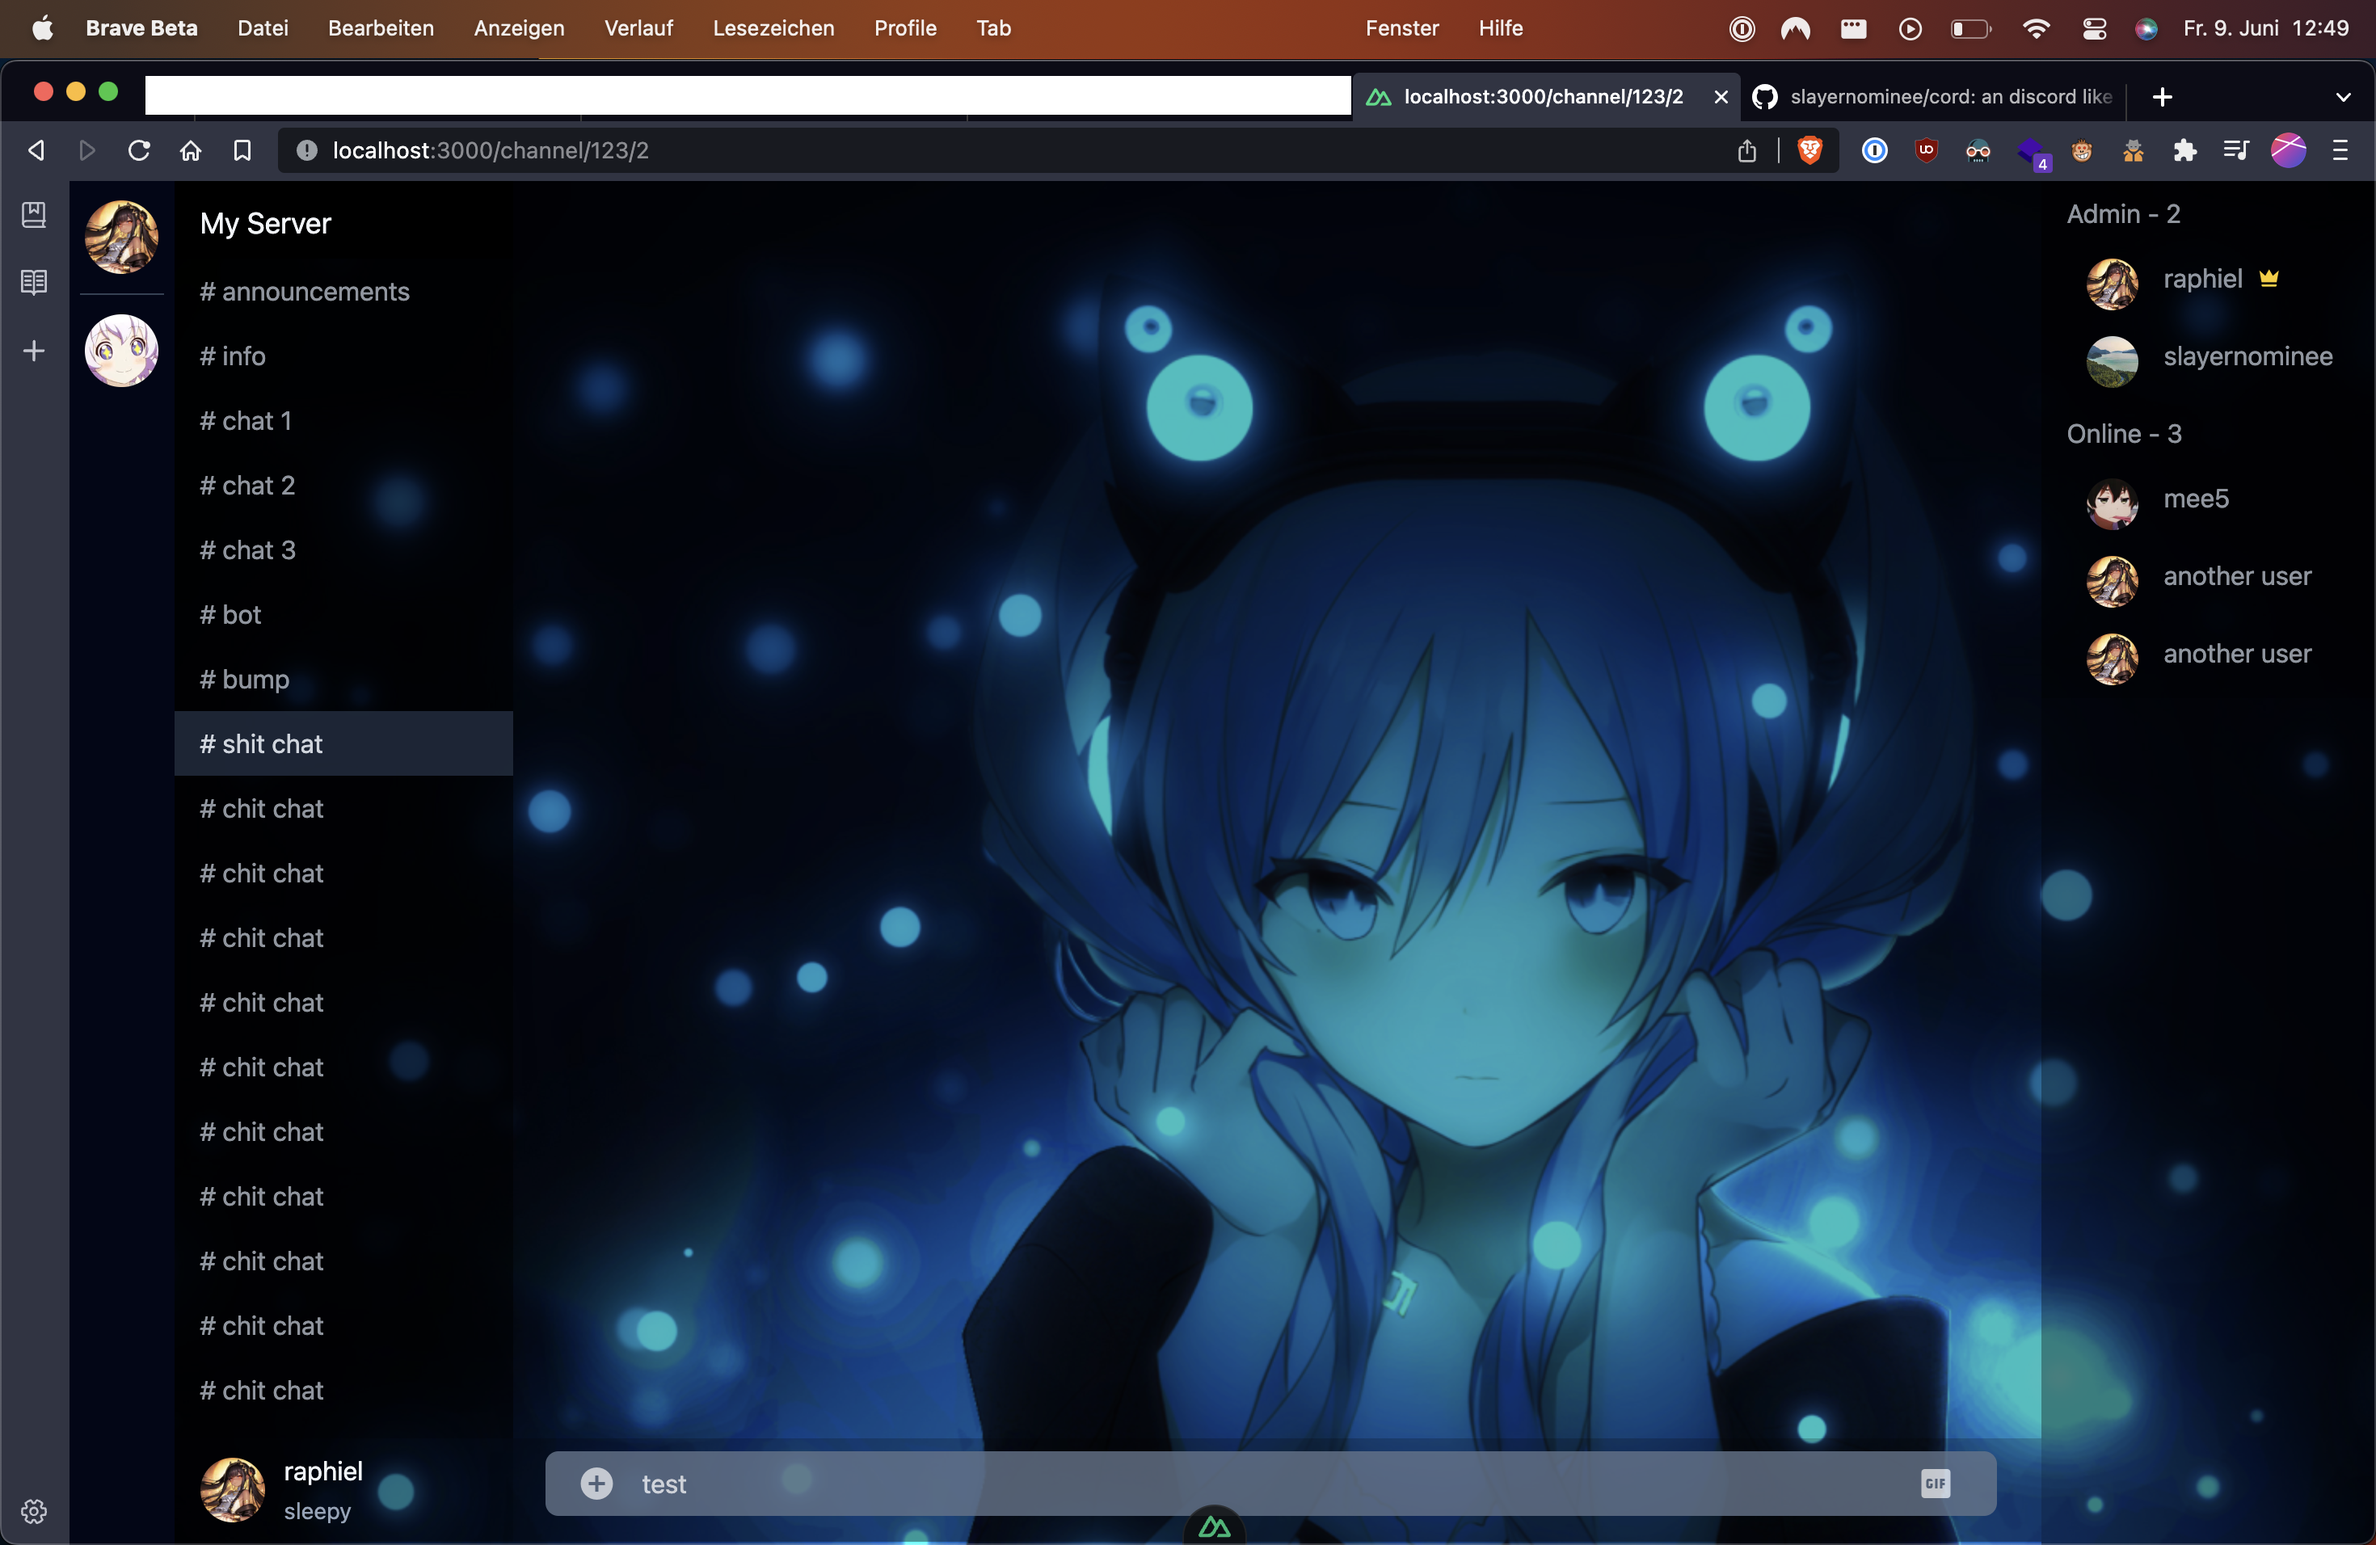
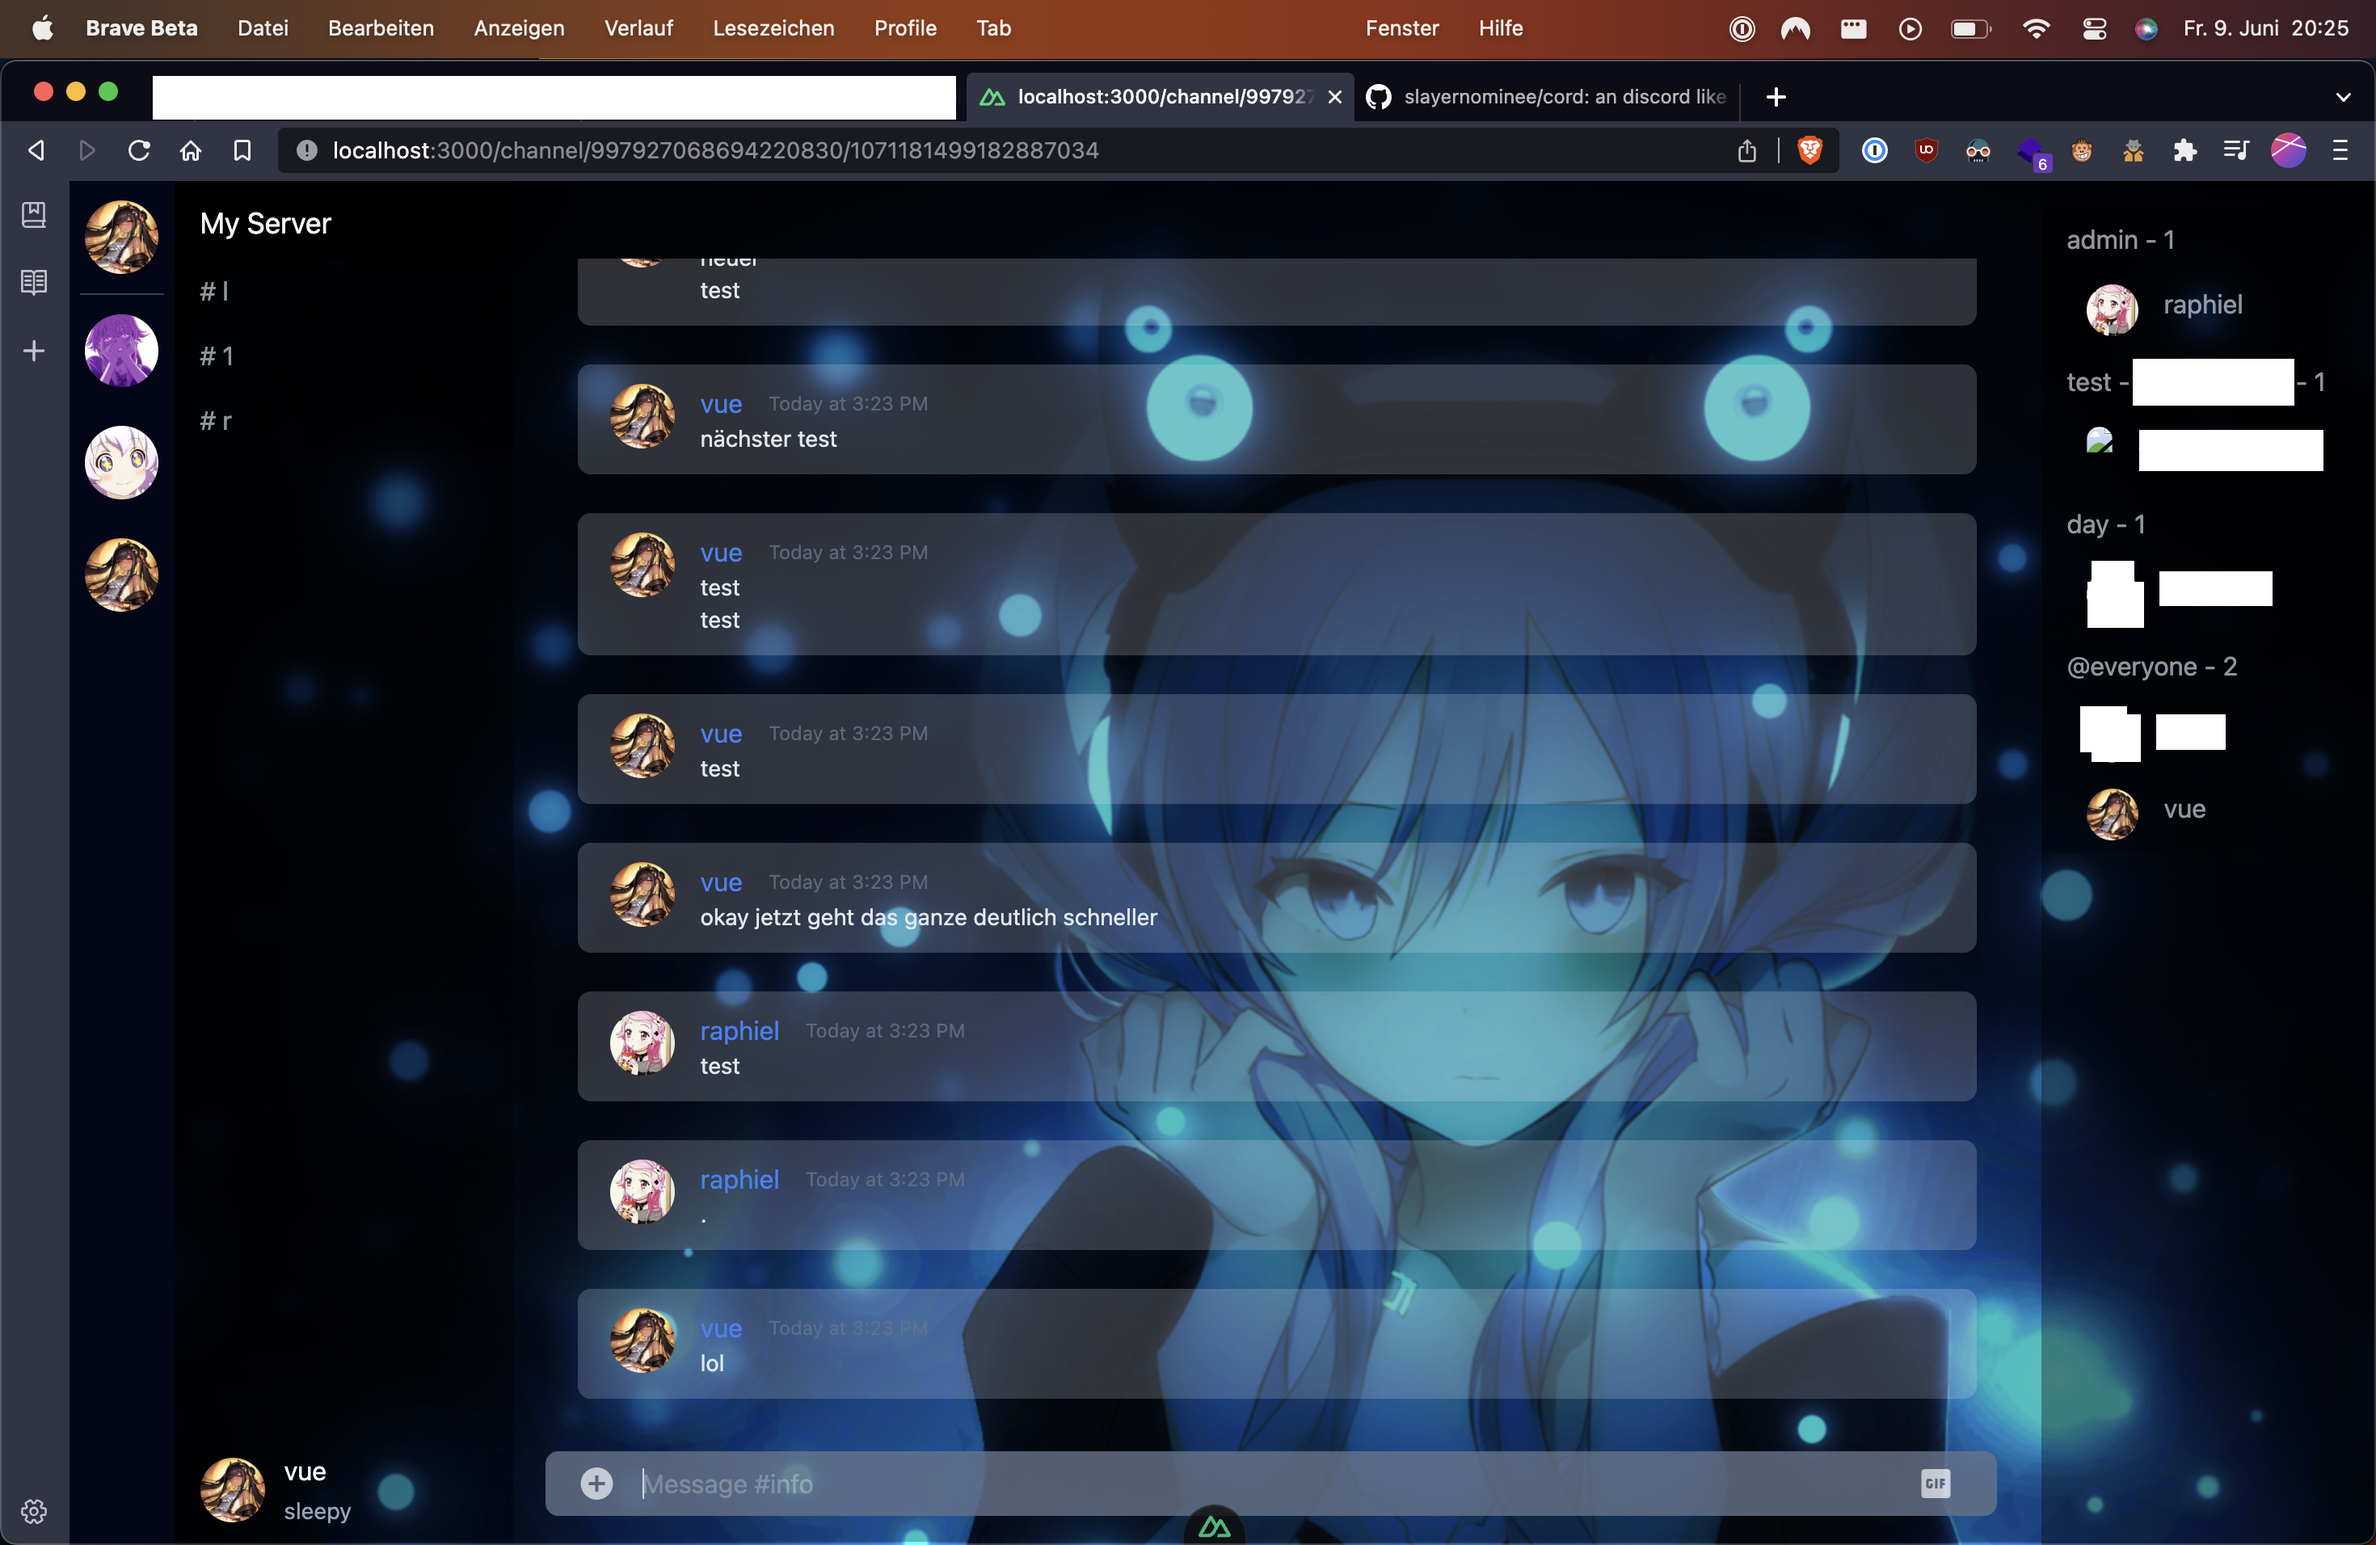
.

diff --git a/server/api/member.js b/server/api/member.js
@@ -4,12 +4,10 @@ import { Routes } from 'discord-api-types/v10'
 const rest = new REST({ version: '10' }).setToken(`${useRuntimeConfig().token}`)
 
 export default defineEventHandler(async (event) => {
-    const { guild_id } = await readBody(event)
+    const { guild_id, user_id } = await readBody(event)
+    const member = await rest.get(Routes.guildMember(guild_id, user_id))
 
-    const members = await rest.get(Routes.guildMembers(guild_id), { query: "limit=100"})
-    
     return {
-        members: members
+        member: member
     }
-    
 })

diff --git a/server/api/allMembersByRoles.js b/server/api/allMembersByRoles.js
@@ -2,7 +2,6 @@ export default defineEventHandler(async (event) => {
     const { guild_id } = await readBody(event)
     const { roles } = await $fetch('/api/roles', { method: 'POST', body: { guild_id: guild_id } })
 
-
     const { members } = await $fetch('/api/members', { method: 'POST', body: { guild_id: guild_id } })
 
     // TODO: option to give the roles and the users -> less requests 

diff --git a/pages/channel/[server]/[id].vue b/pages/channel/[server]/[id].vue
@@ -62,7 +62,9 @@ const messageSend = async (message: string) => {
     message_key.value++
 }
 
-const members: any = []
+const { members }: any = await $fetch('/api/allMembersByRoles', { method: 'POST', body: { guild_id: server_id } })
+
+console.log(members)
 
 </script>
 
